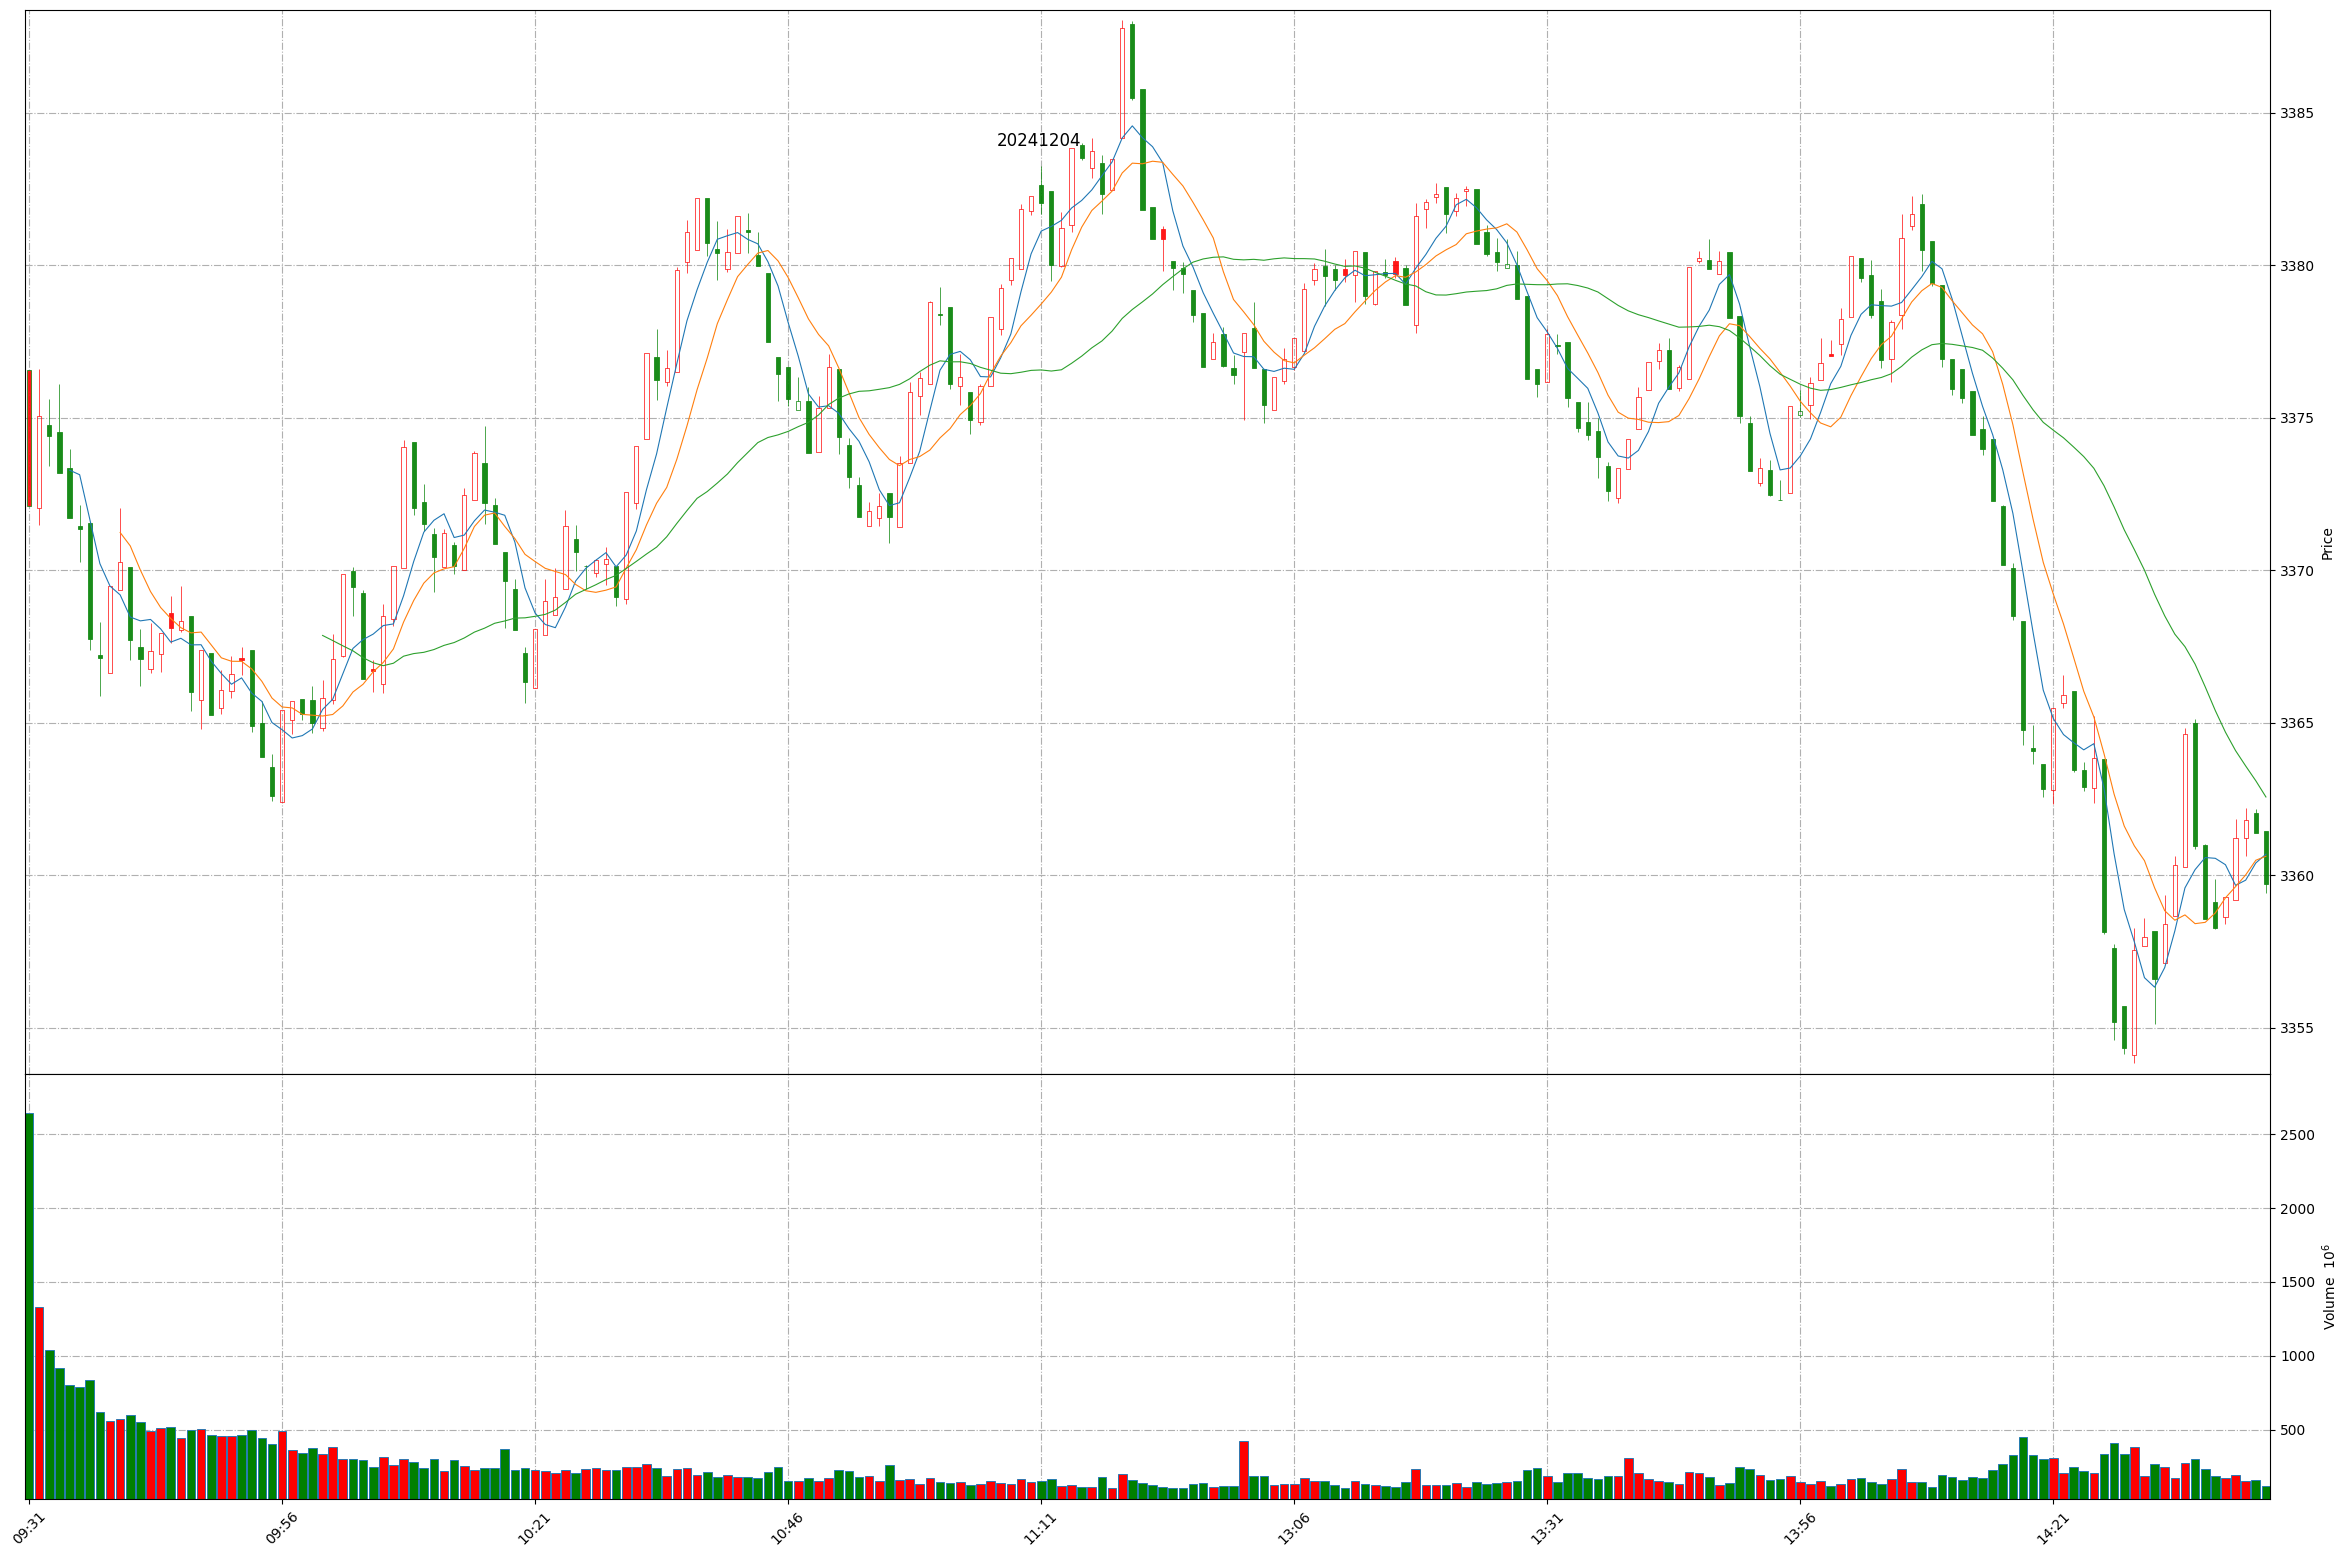
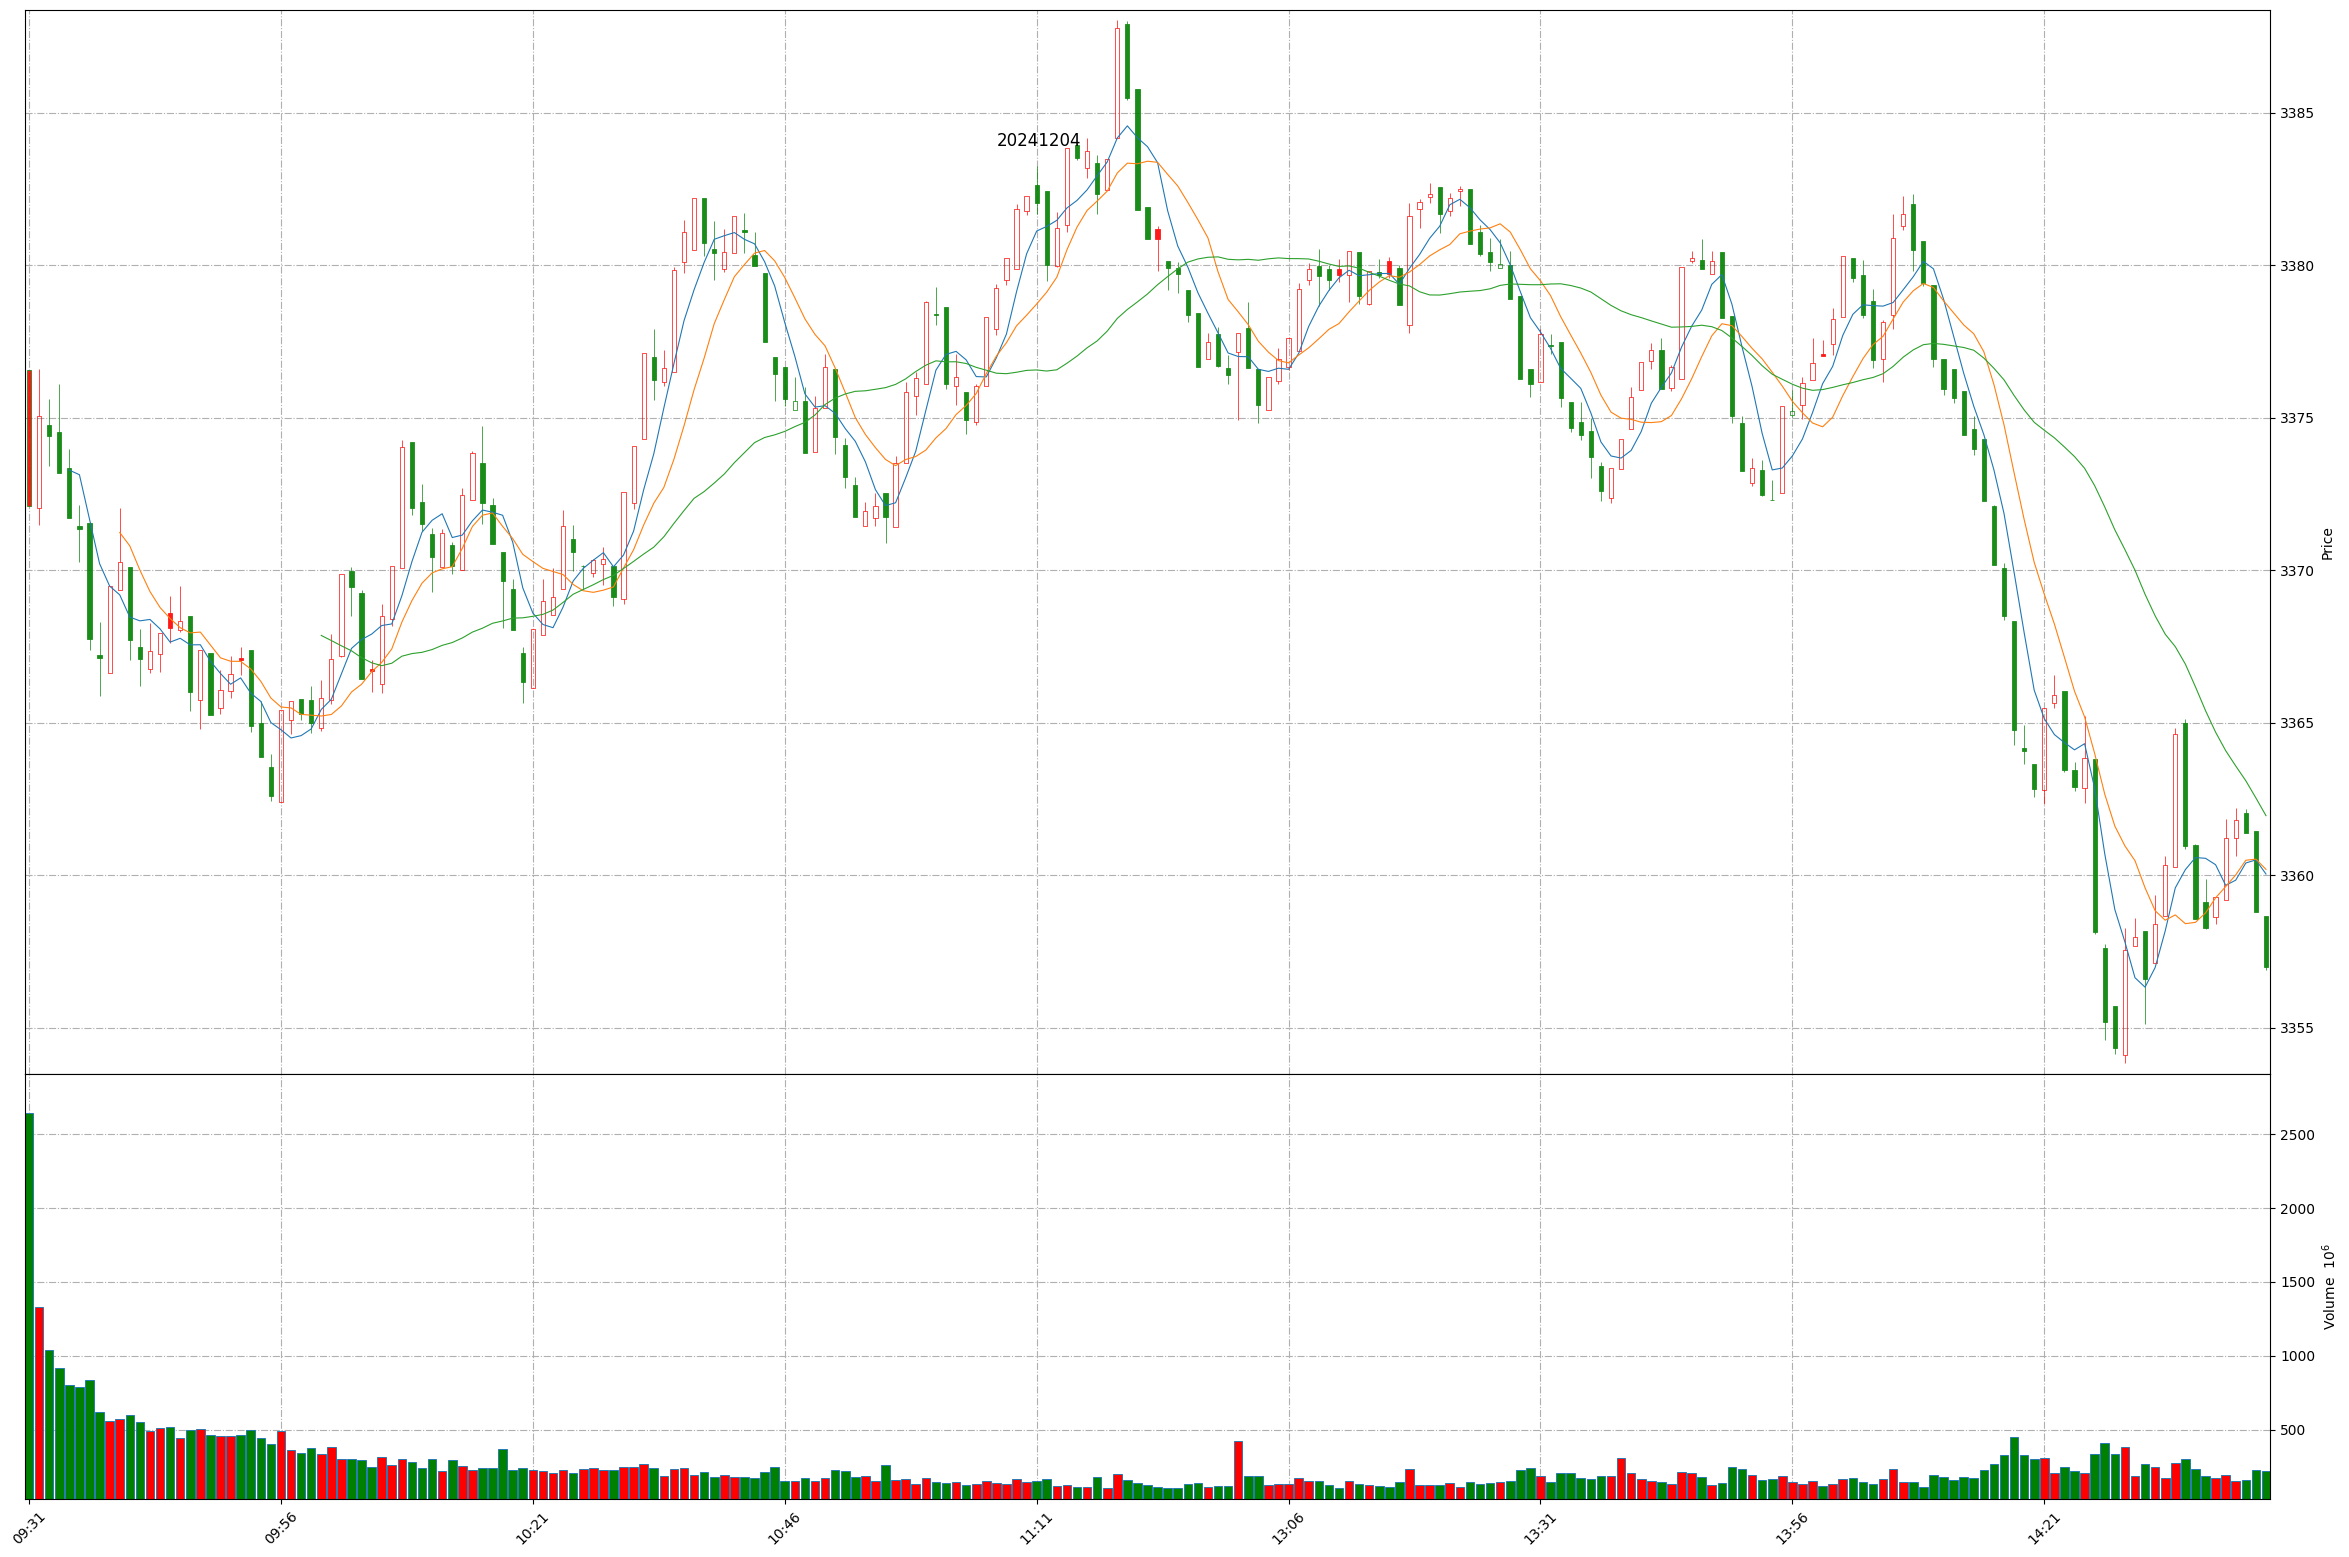
Github action update at 2024-12-04 14:42:56.

diff --git a/README.md b/README.md
@@ -1,11 +1,11 @@
 
 # Daily-A-share-market-quotes 每日 A 股指数（5min 更新）- 20241204
 
-### 上证指数 20241204 14:41
+### 上证指数 20241204 14:42
 ![](./fig/2024/12/20241204-sh000001.png)
 
-### 深证成指 20241204 14:41
+### 深证成指 20241204 14:42
 ![](./fig/2024/12/20241204-sz399001.png)
 
-### 北证50 20241204 14:41
+### 北证50 20241204 14:42
 ![](./fig/2024/12/20241204-bj899050.png)
